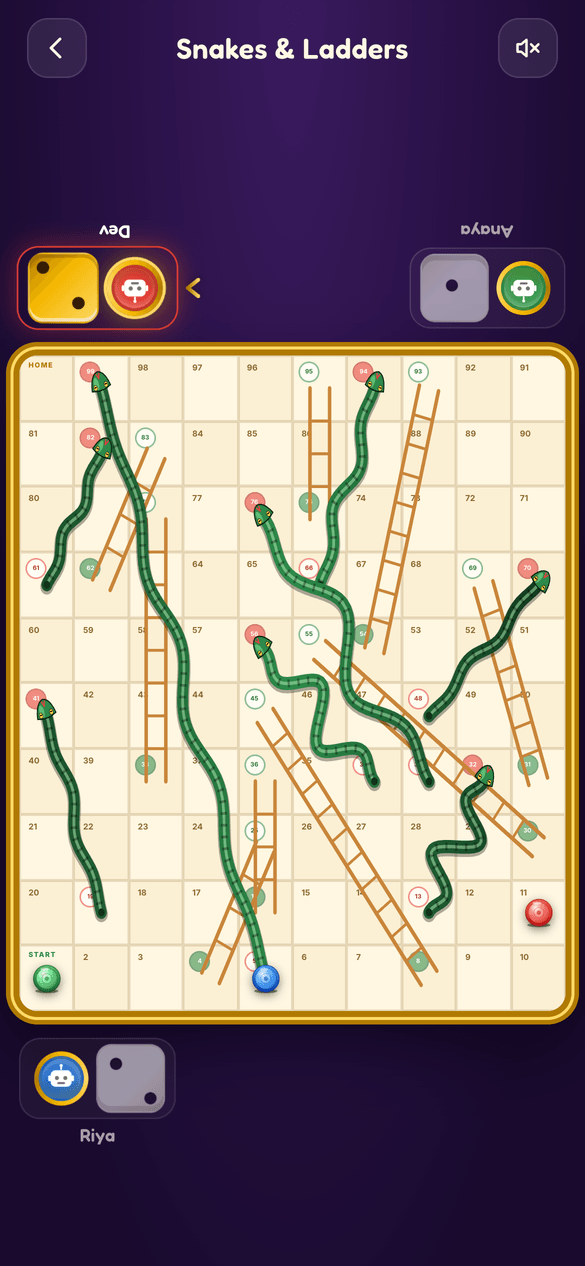
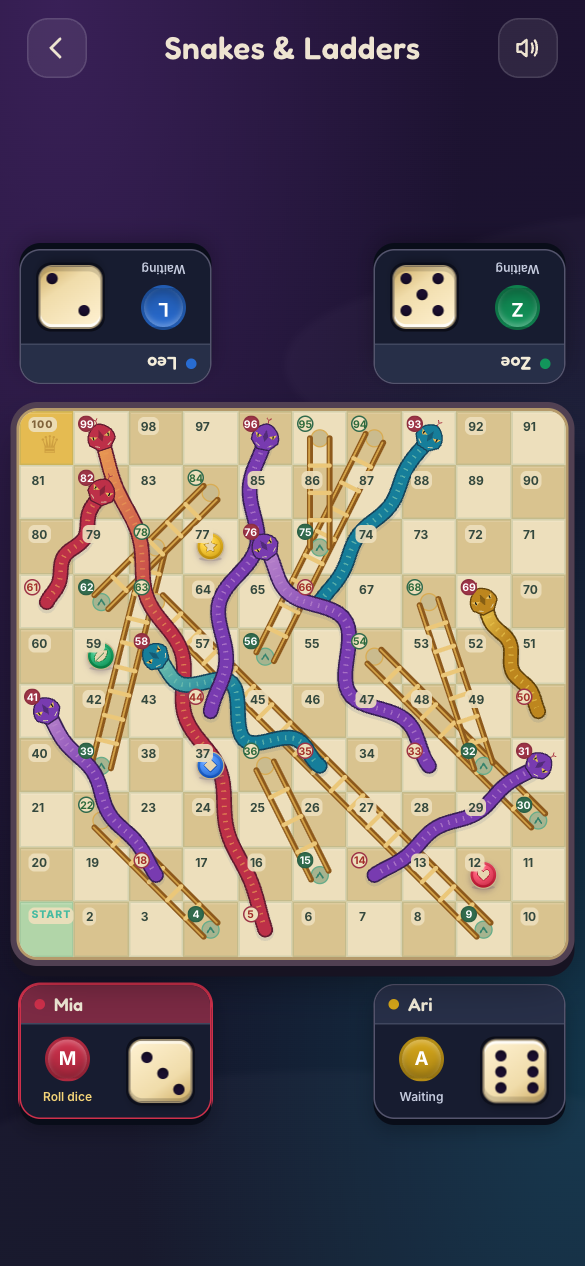
Refresh share previews and record shared agent decisions

diff --git a/vite.config.ts b/vite.config.ts
@@ -25,9 +25,9 @@ export default defineConfig({
         theme_color: '#190a2e',
         // Phone screenshots give Android Chrome its richer install sheet.
         screenshots: [
-          { src: 'screenshots/ludo.png', sizes: '585x1266', type: 'image/png', form_factor: 'narrow', label: 'Ludo' },
-          { src: 'screenshots/snakes-and-ladders.png', sizes: '585x1266', type: 'image/png', form_factor: 'narrow', label: 'Snakes & Ladders' },
-          { src: 'screenshots/game-select.png', sizes: '585x1266', type: 'image/png', form_factor: 'narrow', label: 'Choose a game' },
+          { src: 'screenshots/ludo.png?v=e45e0717f7', sizes: '585x1266', type: 'image/png', form_factor: 'narrow', label: 'Ludo' },
+          { src: 'screenshots/snakes-and-ladders.png?v=ad81b54c2c', sizes: '585x1266', type: 'image/png', form_factor: 'narrow', label: 'Snakes & Ladders' },
+          { src: 'screenshots/game-select.png?v=dab704a093', sizes: '585x1266', type: 'image/png', form_factor: 'narrow', label: 'Choose a game' },
         ],
         icons: [
           {
@@ -53,7 +53,7 @@ export default defineConfig({
       workbox: {
         globPatterns: ['**/*.{js,css,html,ico,png,svg,woff2}'],
         // Marketing images aren't needed to play offline.
-        globIgnores: ['og-image.png', 'screenshots/**'],
+        globIgnores: ['og-image*.png', 'screenshots/**'],
       },
     }),
   ],

diff --git a/index.html b/index.html
@@ -17,11 +17,12 @@
     <meta property="og:title" content="Ludo Pitara — free Ludo & Snakes and Ladders, no ads" />
     <meta property="og:description" content="Play with friends on one phone or against bots. No ads, no sign-up, works offline." />
     <meta property="og:url" content="https://udeshvirk.github.io/ludo-pitara/" />
-    <meta property="og:image" content="https://udeshvirk.github.io/ludo-pitara/og-image.png" />
+    <meta property="og:image" content="https://udeshvirk.github.io/ludo-pitara/og-image-f053263353.png" />
     <meta property="og:image:width" content="1200" />
     <meta property="og:image:height" content="630" />
     <meta property="og:image:alt" content="Ludo and Snakes & Ladders boards on a phone" />
     <meta name="twitter:card" content="summary_large_image" />
+    <meta name="twitter:image" content="https://udeshvirk.github.io/ludo-pitara/og-image-f053263353.png" />
     <meta name="theme-color" content="#190a2e" />
     <meta name="apple-mobile-web-app-capable" content="yes" />
     <meta name="apple-mobile-web-app-status-bar-style" content="black-translucent" />

diff --git a/MEMORY.md b/MEMORY.md
@@ -1,0 +1,87 @@
+# Shared project memory
+
+Read this file alongside `AGENTS.md` and `ARCHITECTURE.md` before changing
+Ludo Pitara. This is repository-level context for all coding agents;
+`CLAUDE.md` points here as well. New explicit user instructions take precedence.
+
+## Product and design decisions
+
+- “For kids” means engaging animation, magical moments, and readable play.
+  It does **not** mean childish artwork, smiling characters, easier rules,
+  or removing scary snakes and major setbacks.
+- The user rejected both bright/light pastel colours (eye strain) and muddy,
+  faded colours that made controls look disabled. Keep rich, distinct colours,
+  dark surroundings, clear contrast, and readable button text.
+- The user explicitly likes the current pointed snake head with angular eyes.
+  Preserve it unless asked to change it.
+- No floating commentary bubbles for snake bites, ladders, safe squares, etc.
+  Movement effects and brief capture/home celebrations are fine. This does not
+  prohibit functional dialogs such as exit confirmation or token selection.
+- Player cards now contain a name strip, avatar, turn-status label, and dice
+  tray. Earlier subtle restyles were not noticeable enough to the user.
+- Keep the smaller SNL anchor-number circles and ladder endpoint rings.
+- Dice lift, tumble, land, and bounce, ending on the correct face even when
+  rolling the same value twice. Keyboard interaction and reduced motion matter.
+
+## Snakes & Ladders: final placement decision
+
+The user explicitly requested returning to the **original range-based
+placement logic with the new looks**. That is the current implementation in
+`src/games/snl/generator.ts`; do not reintroduce the discarded preset layouts.
+
+- Seven primary snakes, two possible additional snakes, nine ladder specs.
+- One large snake from 98 or 99 to 2–5. Never snakes on both 98 and 99.
+- Unique endpoints; no consecutive-number snake heads; cells 1 and 100 reserved.
+- These checks constrain endpoints, not complete rendered paths. Do not claim
+  the original generator guarantees zero visual crossings.
+- Attempts at four curated layouts, broad sweeping routes, fewer snakes, and
+  evenly distributed ladder groups were rejected. Their `layouts.ts` was removed.
+- Optional `sweeping` geometry remains only for compatibility with games saved
+  during that experiment. New games use the original curves. Drawing and slide
+  animation must use the same geometry.
+- Existing saves retain placement. Start a **new game** to assess generator
+  changes; do not clear a user's save without their instruction.
+
+## Responsive layout and timing
+
+- Both game boards must be **square on every device**. SNL's former mobile
+  5:6 ratio stretched the cells and artwork; it was removed at the user's request.
+- `useLayoutMode` uses side rails when landscape width is at least 640px.
+  Test phone portrait, landscape, tablet portrait, and all four player cards.
+- Checked viewport sizes: 320×568, 390×844, 430×932, 768×1024, 844×390.
+  These are browser viewport checks, not a claim of physical iPhone/iPad testing.
+- Walk steps/tweens remain matched at 90ms. Dice animation is 780ms and game
+  stores settle rolls at 800ms. SNL `slideDurationMs` is shared between rendering
+  and store completion: ladders 550ms, short snakes 850ms, falls ≥45 cells 1450ms.
+- Respect reduced motion, including changes while a die is rolling.
+
+## Publishing, previews, and validation
+
+- Production: https://udeshvirk.github.io/ludo-pitara/
+- Local Vite preview normally: http://localhost:5173/ludo-pitara/
+- GitHub Pages deploys through `.github/workflows/ci.yml` after a push to `main`.
+  No Sites hosting migration and no local `npm run deploy` command.
+- Published app commits: `750c9cd` (visual/card/dice refresh with original SNL
+  placement restored), `4cafce2` (square SNL board on mobile).
+- At this handoff, lint, authoritative `npm run build`, and all 65 tests pass.
+  Browser checks covered responsive sizing, slides, all six dice results,
+  repeated results, keyboard rolling, and reduced motion.
+- The user is testing the published app on mobile and iPad. Await actual device
+  feedback; do not interpret deployment success as physical-device validation.
+- Share cards and install screenshots are separate static assets. UI deployments
+  alone do not refresh them. After significant visual changes, refresh all four
+  `public/screenshots/` PNGs (585×1266), run `node scripts/gen-og.mjs`, and inspect
+  the resulting 1200×630 card before publishing.
+- Current refreshed share image: `public/og-image-f053263353.png`, captured
+  from the square-board build with the original SNL placement logic.
+- The social-card generator versions the image URL by content hash and updates
+  Open Graph/Twitter metadata. Keep `og-image*.png` and screenshots out of PWA
+  precache. Existing chat messages may retain third-party cached previews;
+  a freshly shared URL can be needed to force a fresh page scrape.
+
+## Maintaining this memory
+
+Keep durable preferences here, technical behaviour in `ARCHITECTURE.md`, and
+short startup guidance in `AGENTS.md`/`CLAUDE.md`. Update conflicting old notes
+when decisions change. Repository files are shared project memory, not a claim
+that every agent's private or account-wide memory was changed.

diff --git a/AGENTS.md b/AGENTS.md
@@ -1,0 +1,53 @@
+# Repository Guidelines
+
+## Shared Agent Context
+
+Read `MEMORY.md` for the user’s current preferences and final decisions, and
+`ARCHITECTURE.md` before substantial changes. Keep this shared memory current.
+
+- Preserve the original SNL range-based placement logic with the new artwork.
+- Keep both boards square on phones and tablets.
+- Magic and animation should not make the game childish, easier, or pastel.
+- Preserve the current snake head; avoid floating event-commentary popups.
+- Refresh screenshots and the social preview card when publishing visual changes.
+
+
+## Project Structure & Module Organization
+
+Ludo Pitara is an offline React 19 + TypeScript PWA with Ludo, Snakes & Ladders, and standalone Dice mode.
+
+- `src/pages/`: route screens; routes are registered in `src/App.tsx`.
+- `src/games/ludo/` and `src/games/snl/`: game rules, Zustand stores, types, timing constants, and board components.
+- `src/games/flow/` and `src/games/settings/`: setup and preferences stores.
+- `src/components/`: shared UI; reusable visual primitives live in `ui/`.
+- `src/lib/`: persistence, stats, sound, haptics, and hooks. Tests sit beside source files.
+- `public/`: static icons, screenshots, and social assets; `scripts/` generates icons and preview imagery.
+- `design_handoff_ludo_pitara/`: design references. Read `ARCHITECTURE.md` before substantial changes.
+
+## Build, Test, and Development Commands
+
+Use Node.js 22, matching CI, and install dependencies with `npm ci`.
+
+- `npm run dev`: start the Vite development server.
+- `npm run build`: generate icons, type-check with `tsc -b`, and build into `dist/`. Use this as the authoritative type-check.
+- `npm run preview`: serve the production build locally.
+- `npm run lint`: run ESLint.
+- `npm test`: run the full Vitest suite once.
+- `npm run test:watch`: watch tests during development.
+- `npm test -- src/games/ludo/moves.test.ts`: run one test file.
+
+## Coding Style & Naming Conventions
+
+Follow existing TypeScript style: two-space indentation, single quotes, and surrounding semicolon conventions. Use PascalCase component filenames, camelCase helpers, and `use*` hook names. Prefer explicit type imports. ESLint checks TypeScript, React Hooks, and Fast Refresh; Husky runs staged ESLint fixes and tests before commits.
+
+Keep game rules in pure helpers rather than UI or store orchestration. Define gameplay delays in each game's `timing.ts`. Preserve offline operation and self-hosted fonts.
+
+## Testing Guidelines
+
+Vitest uses the Node environment with explicit imports. Colocate descriptive `*.test.ts` files; `*.spec.ts` and TSX equivalents are also supported. Cover rule edge cases, board generation, and persistence regressions. No coverage threshold is configured. Manually check responsive layouts and animations for visual changes.
+
+## Commit & Pull Request Guidelines
+
+Use concise, imperative commit subjects, following history: `Fix clipped header buttons and board frame`. Optional scope prefixes such as `Docs:` are used.
+
+PRs should describe the change, link relevant issues, report validation, and include screenshots for UI changes. Run lint, tests, and build before submitting. CI repeats these checks; pushes to `main` deploy to GitHub Pages.

diff --git a/ARCHITECTURE.md b/ARCHITECTURE.md
@@ -72,7 +72,8 @@ persistence. (`GameId` in `useFlow` is still `'ludo' | 'snl'`.)
 
 ## State stores
 
-Four Zustand stores. Each one is a singleton; components subscribe via
+Four main Zustand stores, plus the transient presentation-event store.
+Each one is a singleton; components subscribe via
 hooks (`useStoreName(s => s.field)`).
 
 ### `useFlow` — cross-screen setup
@@ -129,8 +130,7 @@ Same shape, simpler:
 Actions: `initGame`, `rollDice`, `resetGame`.
 
 ### `useSettings` — `src/games/settings/store.ts`
-Persistent preferences: `sound`, `haptics`, `animationSpeed`,
-`boardTheme`. Mutations propagate to `lib/sound.ts` and `lib/haptics.ts`
+Persistent preferences: `sound` and `haptics`. Mutations propagate to `lib/sound.ts` and `lib/haptics.ts`
 so the next call respects the setting.
 
 ## Persistence
@@ -403,16 +403,17 @@ SNL versions use the shared `Pod` (`src/components/ui/Pod.tsx`):
   Animation controls start from the previous face and respect reduced motion. `transformPerspective`
   applies depth.
 - `Coin` = the jewel-coloured SVG token used in both games, with colour-family
-  emblems (heart, leaf, star, diamond). Exports a
-  `stackPlacement(stackSize, stackIndex)` helper so tokens fan out
+  emblems (heart, leaf, star, diamond). The separate
+  `ui/stackPlacement.ts` helper makes tokens fan out
   diagonally when ≥ 2 share a cell.
 - `StackCountBadge` = the small black numeric pill in the cell's
   top-right when ≥ 2 tokens overlap.
 
-Board sizing: each game page hard-codes a viewport-calc that picks
-`min(viewport-width budget, viewport-height budget)` so the board
-fits exactly between the pod rows. No flex-1 wrappers — pods sit
-flush against the board.
+Board sizing uses a height-driven 1:1 aspect ratio and matching width/height
+limits. Both boards have square cells on phones and tablets; the old SNL
+5:6 mobile ratio was removed because it stretched artwork. Player cards sit
+above/below in portrait and beside the board at landscape widths ≥640px.
+Check that the board and all four cards fit on short screens.
 
 ## Sound and haptics
 
@@ -460,10 +461,13 @@ browsers (X, Instagram, Facebook…). In-app browsers can't install, so
 those visitors are told to "Open in browser" first.
 
 Sharing: `index.html` carries Open Graph / Twitter card tags pointing at
-`public/og-image.png` (1200×630), built from the gameplay screenshots in
+a content-versioned `public/og-image-<hash>.png` (1200×630), built from the gameplay screenshots in
 `public/screenshots/` by `node scripts/gen-og.mjs`. That script is run by
 hand and is not part of the build. The same screenshots are listed in the
-manifest so Android shows a richer install sheet. Both are excluded from
+manifest so Android shows a richer install sheet. The generator updates the
+Open Graph/Twitter image URLs and versions screenshot URLs by content hash.
+`public/og-image.png` remains a stable local copy. Third-party chat services
+may keep old previews on existing messages even after these assets change. Both are excluded from
 the service-worker precache (`globIgnores`) so installs stay small.
 
 ## Build / deploy

diff --git a/CLAUDE.md b/CLAUDE.md
@@ -2,11 +2,17 @@
 
 This file provides guidance to Claude Code (claude.ai/code) when working with code in this repository.
 
+## Shared context for all agents
+
+Read `AGENTS.md` and `MEMORY.md` at the start of work. `MEMORY.md` holds the
+user’s latest design decisions, rejected directions, published state, and
+validation limits. Update it when those decisions change.
+
 ## What this is
 
 Ludo Pitara — a React 19 + TypeScript + Vite PWA hosted on GitHub Pages
 (`udeshvirk.github.io/ludo-pitara`). Two single-device games: Ludo and
-Snakes & Ladders, with optional CPU opponents. No backend, no runtime
+Snakes & Ladders, with optional CPU opponents, plus standalone Dice mode. No backend, no runtime
 network calls — sounds are synthesised in WebAudio so the app is fully
 offline once installed.
 
@@ -112,12 +118,14 @@ before making non-trivial changes. Highlights worth knowing up front:
   collision happens (e.g. an empty Ludo yard, a name clash), substitute
   or randomize the conflicting element rather than hiding it. Keep the
   visual real-estate filled.
-- **English-only UI**; no status pill on the active player; coin tokens
+- **English-only UI**; turn status belongs inside the player card; coin tokens
   (not pawn-shape); default colour order is fixed; CPU players are
   named "Bot N".
 - **Layout sizing**: `useLayoutMode` (`src/lib/useLayout.ts`) drives
   breakpoints; game pages use a height-primary aspect-ratio calc so the
-  board fits exactly between the pod rows (no `flex-1` wrappers).
+  board fits between the player rows. Both boards stay square on every device;
+  do not restore SNL’s old 5:6 phone aspect ratio. Landscape widths ≥640px
+  use side rails.
 - Fonts (Fredoka, Inter) are self-hosted from `@fontsource-variable`
   via `src/fonts.css`, Latin + Latin-ext subsets only. Don't import
   Fontsource's own CSS (it ships every script subset into the

diff --git a/README.md b/README.md
@@ -76,6 +76,10 @@ See [ARCHITECTURE.md](ARCHITECTURE.md) for a tour of the code.
 
 Screenshots are real gameplay captured at phone size. The link-preview card
 (`public/og-image.png`) is built from them with `node scripts/gen-og.mjs`.
+The generator also writes a content-versioned image and updates Open Graph,
+Twitter, and install-screenshot URLs. Refresh the screenshots after visual
+changes, then run the generator before publishing. Existing messages can retain
+a platform-cached preview even after deployment.
 
 ## License
 
